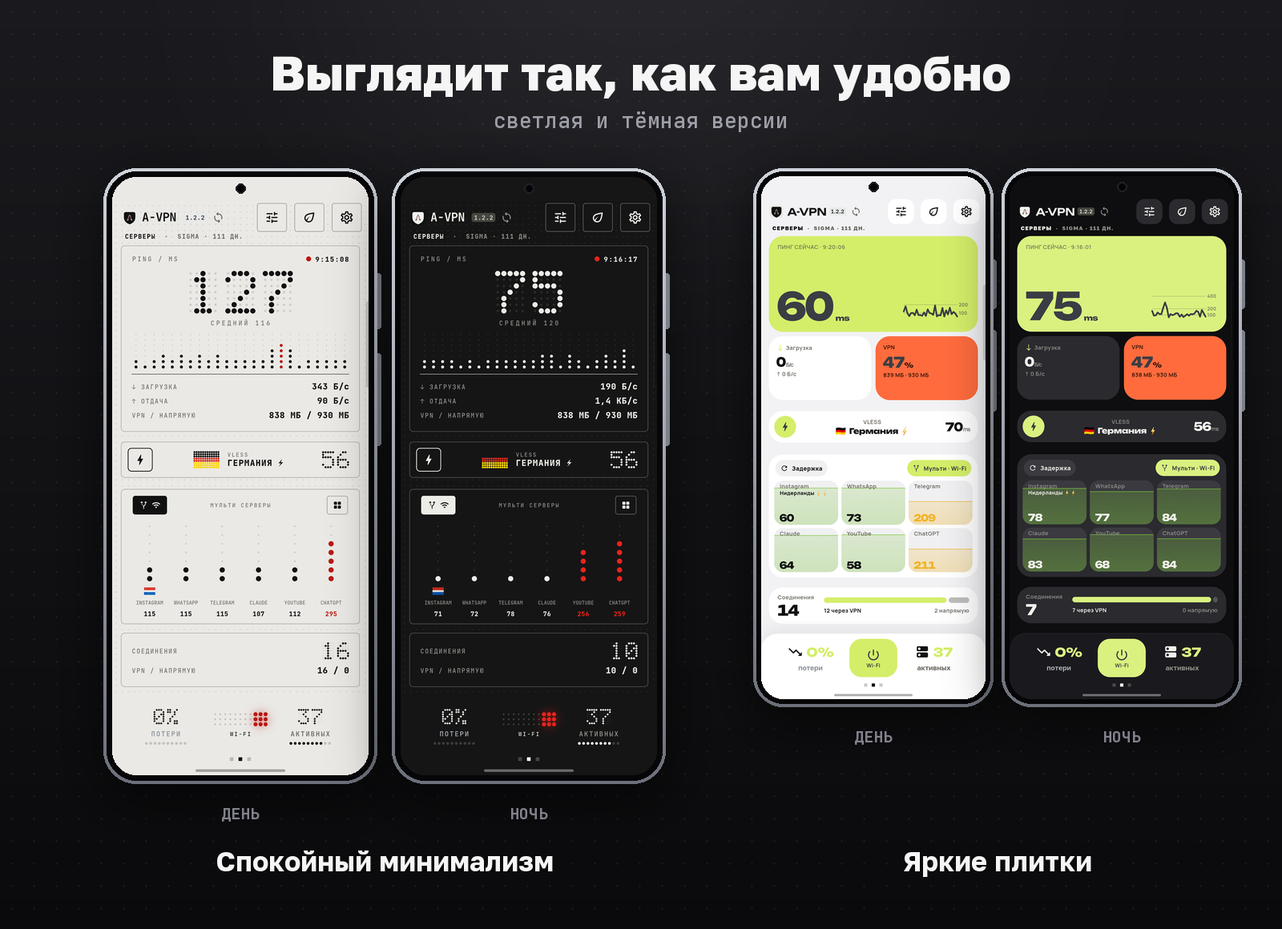
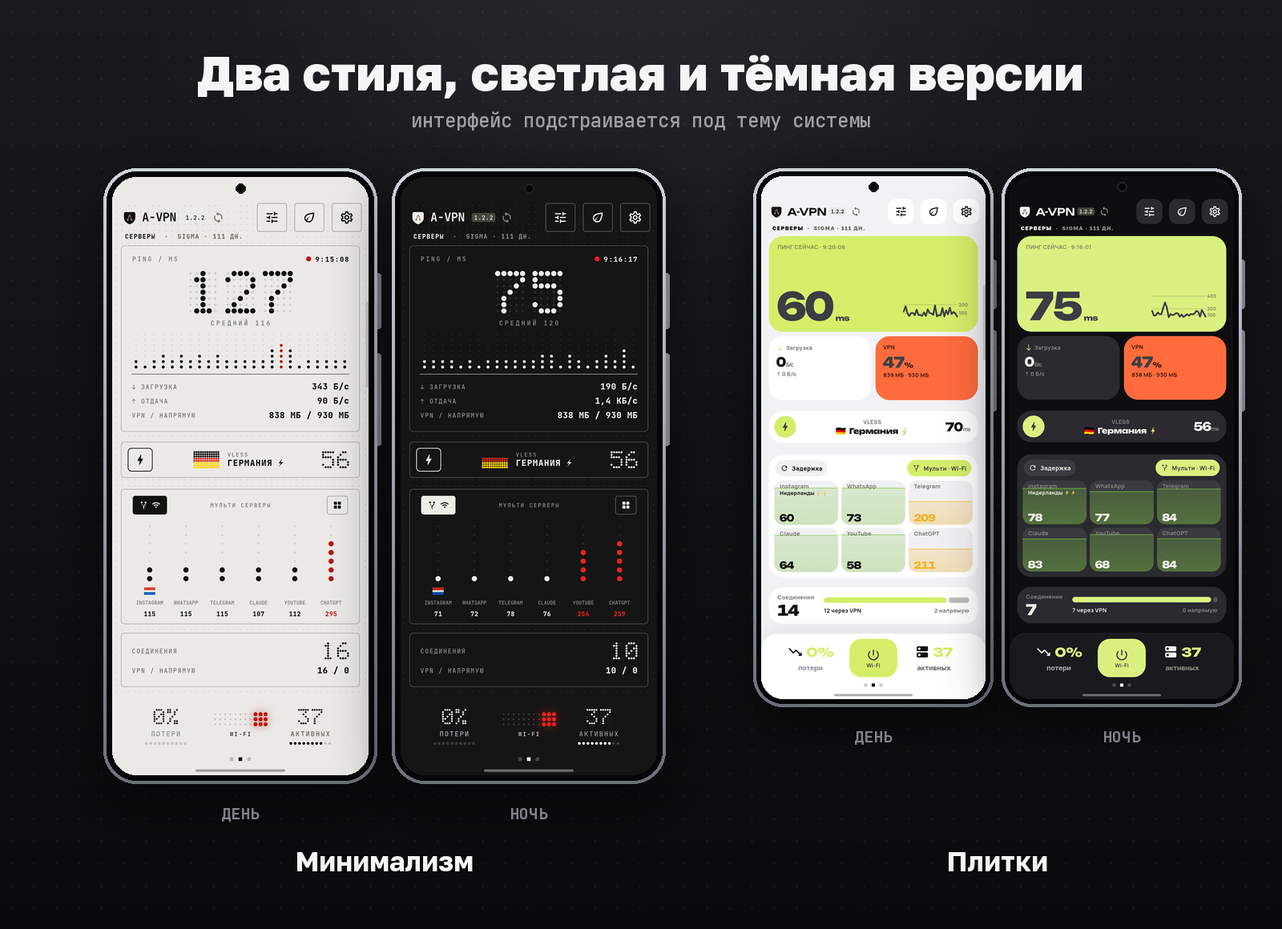
README and pictures: calmer product wording, English summary, feature cards on the Dots style

Changed region(s): [[0.1562, 0.0621, 0.8438, 0.1552], [0.1562, 0.9, 0.4375, 0.9621], [0.6875, 0.9, 0.8438, 0.9621]]

diff --git a/README.md b/README.md
@@ -1,89 +1,84 @@
 <p align="center">
-  <img src="docs/screenshots/hero.png" alt="A-VPN: включил и забыл. Сам переключается между Wi-Fi и LTE, выбирает быстрый сервер и держит связь">
+  <img src="docs/screenshots/hero.png" alt="A-VPN: VPN-клиент для Android, который следит за качеством связи">
 </p>
 
-<p align="center">
-  <img src="docs/screenshots/logo.png" width="72" alt="A-VPN">
-</p>
+<h1 align="center">A-VPN</h1>
 
 <p align="center">
-  VPN-клиент для Android на ядре sing-box. Форк <a href="https://github.com/hiddify/hiddify-app">Hiddify</a> с собственным интерфейсом, статистикой и логикой выбора серверов.<br>
-  <i>An Android VPN client on the sing-box core: a fork of Hiddify that switches between Wi-Fi and LTE by itself and keeps the connection steady. Android 7+, 64-bit ARM only.</i>
+  Клиент для Android на ядре sing-box. Подбирает серверы под текущую сеть, переключается между Wi‑Fi и LTE без разрыва и показывает, как работает соединение.
 </p>
 
 <p align="center">
   <a href="https://github.com/Aramikkk/A-VPN/releases/latest"><img alt="Release" src="https://img.shields.io/github/v/release/Aramikkk/A-VPN?label=release"></a>
-  <a href="https://github.com/Aramikkk/A-VPN/releases"><img alt="Downloads" src="https://img.shields.io/github/downloads/Aramikkk/A-VPN/total?label=%D1%81%D0%BA%D0%B0%D1%87%D0%B8%D0%B2%D0%B0%D0%BD%D0%B8%D0%B9"></a>
+  <a href="https://github.com/Aramikkk/A-VPN/releases"><img alt="Downloads" src="https://img.shields.io/github/downloads/Aramikkk/A-VPN/total?label=downloads"></a>
+  <img alt="Platform" src="https://img.shields.io/badge/Android-7%2B%20%C2%B7%20arm64-3ddc84">
   <a href="LICENSE.md"><img alt="License" src="https://img.shields.io/badge/license-Hiddify%20Extended%20GPL%20v3-blue"></a>
 </p>
 
-> **A-VPN не связан с командой Hiddify и не одобрен ею.** Это независимый форк по условиям их лицензии (см. [Лицензия](#лицензия)). Оригинал: <https://github.com/hiddify/hiddify-app>.
-
-## Связь, о которой не нужно думать
-
 <p align="center">
-  <img src="docs/screenshots/why.png" alt="Wi-Fi и LTE без переключений, всегда нужный сервер, связь не пропадает">
+  <b>Русский</b> · <a href="#english">English</a>
 </p>
 
-- **Wi‑Fi и LTE без переключений.** Вышли из дома, и приложение уже подобрало серверы под мобильную сеть: без отключений и ручных настроек.
-- **Всегда нужный сервер.** В мобильной сети серверы для белых списков, в Wi‑Fi обычные; страны включаются для каждой сети отдельно.
-- **Связь не пропадает.** Приложение следит за пингом и потерями, меняет сервер до того, как вы заметите проблему, и само приводит связь в порядок после сна телефона.
+> A-VPN — независимый форк [Hiddify](https://github.com/hiddify/hiddify-app), выпущенный по условиям его лицензии. Он не связан с командой Hiddify и не одобрен ею.
+
+## Надёжность соединения
 
 <p align="center">
-  <img src="docs/screenshots/inside.png" alt="Всё, что нужно, и ничего лишнего">
+  <img src="docs/screenshots/why.png" alt="Wi-Fi и LTE без разрыва, серверы под каждую сеть, устойчивое соединение">
 </p>
 
-## Как выглядит
+- **Wi‑Fi и LTE без разрыва.** При смене сети серверы и настройки подбираются под неё, VPN остаётся включённым.
+- **Серверы под каждую сеть.** В мобильной сети используются серверы для белых списков, в Wi‑Fi обычные. Страны настраиваются отдельно для каждой сети.
+- **Устойчивое соединение.** Приложение постоянно измеряет задержку и потери, вовремя меняет сервер, перезапускает ядро при потере связи и проверяет соединение после сна устройства.
 
-Спокойный минимализм или яркие плитки, светлая и тёмная версии.
+## Возможности
 
 <p align="center">
-  <img src="docs/screenshots/looks.png" alt="Два стиля приложения, день и ночь">
+  <img src="docs/screenshots/inside.png" alt="Контроль качества связи, быстрый выбор сервера, отдельный сервер для сервиса, статистика">
 </p>
 
-<p align="center">
-  <img src="docs/screenshots/screens.png" alt="Выбор сервера, куда ушёл трафик, как держится связь, настройки">
-</p>
-
-## Что умеет
-
-**Подключение и выбор серверов**
-- Несколько подписок сразу; порядок меняется перетаскиванием, одну можно сделать приоритетной (её серверы остаются, пока другие не быстрее на заданное число миллисекунд).
-- «Авто» по минимальной задержке с допуском отдельно для Wi‑Fi и мобильной сети.
-- Кнопка у текущего сервера: пингует все серверы и выбирает самый быстрый из подходящих.
-- Серверы по сети: в мобильной сети только серверы для белых списков («LTE Only», «БС»), в Wi‑Fi обычные; страны можно отключать отдельно для каждой сети.
-- «Мульти серверы»: отдельный сервер для каждого из выбранных сайтов и приложений (Instagram, WhatsApp, Telegram, YouTube и т. д.), с измерением задержки до каждого сайта.
+**Серверы**
+- Несколько подписок в одном списке. Порядок задаётся перетаскиванием, одну подписку можно сделать приоритетной.
+- Автоматический выбор по минимальной задержке с отдельным допуском для Wi‑Fi и мобильной сети.
+- Кнопка быстрого выбора: проверяет все серверы и выбирает самый быстрый из доступных по вашим правилам.
+- Отдельный сервер для выбранных сервисов и приложений (Instagram, WhatsApp, Telegram, YouTube и других) с измерением задержки до каждого.
 
 **Маршрутизация**
-- Режим «только заблокированное через VPN»: всё остальное идёт напрямую (встроенный список, обновляется).
-- Правила по приложениям (раздельное туннелирование) и по доменам; готовые группы для российских сервисов, банков и маркетплейсов.
-- Блокировка рекламы, трекеров, фишинга и майнеров на уровне VPN.
-- Автопауза: VPN сам отключается, пока открыто приложение из вашего списка (Госуслуги, банки), и включается обратно.
-- Домашний Wi‑Fi: если на роутере уже работает свой VPN, приложение само встаёт на паузу и возвращается вне дома (сеть определяется по роутеру, без доступа к геолокации).
+- Режим «только заблокированное через VPN»: остальной трафик идёт напрямую. Список обновляется.
+- Раздельное туннелирование по приложениям и доменам, готовые группы для российских сервисов, банков и маркетплейсов.
+- Блокировка рекламы, трекеров, фишинговых сайтов и майнеров на уровне VPN.
+- Автопауза: VPN приостанавливается, пока на экране приложение из вашего списка (например, Госуслуги или банк), и включается снова.
+- Домашний Wi‑Fi: если на роутере уже работает свой VPN, приложение приостанавливается и возвращается вне дома. Сеть определяется по роутеру, доступ к геолокации не нужен.
 
 **Статистика**
-- Топология: какой трафик куда ушёл (VPN, напрямую, заблокировано) и через какие страны.
-- «Серверы»: объём и время по каждому серверу за сессию, сутки, месяц и всё время.
-- Потери и пинг с историей, трафик по приложениям.
+- Топология: куда ушёл трафик (VPN, напрямую, заблокировано) и через какие страны.
+- Серверы: объём и время по каждому серверу за сессию, сутки, месяц и весь период.
+- Задержка и потери с историей, трафик по приложениям.
 
-**Интерфейс и батарея**
-- Два стиля на выбор (спокойный минимализм и яркие плитки; есть и стеклянный, и контрастный), светлая и тёмная версии, масштаб интерфейса и шрифта.
-- Ночной режим и «лёгкая работа в фоне»: реже опросы, меньше пробуждений.
-- Проверка и восстановление связи после сна телефона.
+**Работа в фоне**
+- Ночной режим и режим лёгкой работы: реже опросы, меньше пробуждений устройства.
+- Уведомление службы не обновляется, пока экран выключен.
 
-**Безопасность**
-- Управление ядром идёт через локальный gRPC с случайным секретом, свой у каждой установки (другие приложения к ядру не подключатся).
-- Журналы очищаются от ссылок подписок, ключей, паролей и UUID.
-- Обновления берутся только из релизов этого репозитория, архив проверяется по SHA‑256.
+## Интерфейс
+
+<p align="center">
+  <img src="docs/screenshots/looks.png" alt="Два стиля интерфейса, светлая и тёмная версии">
+</p>
+
+<p align="center">
+  <img src="docs/screenshots/screens.png" alt="Выбор сервера, трафик, качество связи, настройки">
+</p>
+
+Два стиля на выбор (минимализм и плитки; есть также стеклянный и контрастный), светлая и тёмная версии, масштаб интерфейса и шрифта.
 
 ## Установка
 
-1. Скачайте `A-VPN-<версия>-arm64.apk` из [релизов](https://github.com/Aramikkk/A-VPN/releases/latest).
-2. Проверьте контрольную сумму: рядом лежит файл `*.apk.sha256`.
+1. Скачайте `A-VPN-<версия>-arm64.apk` из [последнего релиза](https://github.com/Aramikkk/A-VPN/releases/latest).
+2. Проверьте контрольную сумму. Рядом лежит файл `*.apk.sha256`:
    ```bash
    sha256sum -c A-VPN-<версия>-arm64.apk.sha256
    ```
-3. Установите (Android попросит разрешить установку из этого источника) и добавьте свою подписку: «Профили» → «+».
+3. Установите APK (Android запросит разрешение на установку из этого источника) и добавьте подписку: «Профили» → «+».
 
 **Подпись.** Все релизы подписаны одним ключом. SHA‑256 сертификата:
 
@@ -93,47 +88,48 @@
 
 Проверить: `apksigner verify --print-certs A-VPN-<версия>-arm64.apk`. Если отпечаток другой, это не наша сборка.
 
-**Только 64-битный ARM** (`arm64-v8a`): практически все телефоны последних лет. Для других процессоров (32‑битный ARM, x86) сборок нет.
+**Архитектура.** Только 64-битный ARM (`arm64-v8a`), то есть подавляющее большинство устройств последних лет. Сборок для 32-битного ARM и x86 нет.
 
-Обновления приходят из самого приложения («Настройки» → «О программе»): оно раз в сутки смотрит `latest.json` в последнем релизе этого репозитория, показывает полосу «Доступна версия» и ставит файл после вашего подтверждения.
+**Обновления.** Приложение раз в сутки запрашивает `latest.json` в последнем релизе этого репозитория, показывает уведомление о новой версии и устанавливает её после вашего подтверждения.
 
-## Разрешения и приватность
+## Приватность и разрешения
 
-| Разрешение | Зачем |
+| Разрешение | Назначение |
 |---|---|
-| `INTERNET`, `BIND_VPN_SERVICE`, `FOREGROUND_SERVICE*` | сам VPN |
-| `QUERY_ALL_PACKAGES` | список установленных приложений для раздельного туннелирования и статистики по приложениям |
-| `PACKAGE_USAGE_STATS` | определить приложение на экране для автопаузы VPN (по желанию) |
-| `REQUEST_INSTALL_PACKAGES` | установка обновления по вашему подтверждению |
-| `RECEIVE_BOOT_COMPLETED`, `REQUEST_IGNORE_BATTERY_OPTIMIZATIONS` | запуск после перезагрузки и работа в фоне |
+| `INTERNET`, `BIND_VPN_SERVICE`, `FOREGROUND_SERVICE*` | работа VPN |
+| `QUERY_ALL_PACKAGES` | список приложений для раздельного туннелирования и статистики по приложениям |
+| `PACKAGE_USAGE_STATS` | определение приложения на экране для автопаузы (по желанию) |
+| `REQUEST_INSTALL_PACKAGES` | установка обновления после вашего подтверждения |
+| `RECEIVE_BOOT_COMPLETED`, `REQUEST_IGNORE_BATTERY_OPTIMIZATIONS` | запуск после перезагрузки, работа в фоне |
 | `POST_NOTIFICATIONS` | уведомление службы со скоростью и сервером |
 | `CAMERA` | сканирование QR-кода подписки |
 
-- Телеметрии и аналитики в сборках нет (ключ отправки отчётов не задан).
-- Единственное обращение приложения «от себя»: раз в сутки запрос `latest.json` на github.com (как у любого браузера: ваш IP виден GitHub, никаких идентификаторов приложение не добавляет).
-- Запросы к подписке идут к вашему провайдеру. Если его панель ограничивает число устройств, приложение передаёт случайный идентификатор установки (создаётся при первом запуске, не связан с вами).
-- Всё, что вы настраиваете (подписки, списки приложений, статистика), хранится только на устройстве.
+- Телеметрии и аналитики в сборках нет: ключ отправки отчётов не задан.
+- Приложение само обращается только к github.com: раз в сутки за `latest.json`. GitHub видит IP-адрес, как при открытии любого сайта; идентификаторов приложение не добавляет.
+- Запросы подписки уходят вашему провайдеру. Если его панель ограничивает число устройств, передаётся случайный идентификатор установки, созданный при первом запуске.
+- Подписки, списки приложений и статистика хранятся только на устройстве.
+- Управление ядром идёт через локальный gRPC (`127.0.0.1`) с секретом, уникальным для каждой установки. Другие приложения к ядру подключиться не могут.
+- Журналы очищаются от ссылок подписок, ключей, паролей и UUID.
+- Обновление проверяется по SHA‑256 из того же релиза.
 
 ## Отличия от Hiddify
 
-Полный список по версиям: [`avpn/CHANGELOG.md`](avpn/CHANGELOG.md). Главное:
+Полный список по версиям: [`avpn/CHANGELOG.md`](avpn/CHANGELOG.md). Основное:
 
-- новый интерфейс (четыре темы), главный экран с пингом, потерями, сайтами и текущим сервером;
-- страницы статистики «Топология» и «Серверы», история потерь и пинга;
-- выбор серверов по сети, приоритетная подписка, мульти‑серверы по сайтам;
+- собственный интерфейс и главный экран с задержкой, потерями, сайтами и текущим сервером;
+- страницы статистики «Топология» и «Серверы», история потерь и задержки;
+- выбор серверов по сети, приоритетная подписка, отдельные серверы для сервисов;
 - маршрутизация «только заблокированное», группы российских сервисов, блокировка рекламы;
-- нижний уровень: патчи к ядру ([`avpn/core54-patches`](avpn/core54-patches)) поверх `hiddify-core` 5.4.0 и `hiddify-sing-box`: горячая перезагрузка при смене сети, статистика трафика, группы сайтов;
+- изменения ядра ([`avpn/core54-patches`](avpn/core54-patches)) поверх `hiddify-core` 5.4.0 и `hiddify-sing-box`: горячая перезагрузка при смене сети, статистика трафика, группы сайтов;
 - работа в фоне: ночной режим, проверка связи после сна, перезапуск ядра при необходимости;
-- обновление из GitHub Releases;
-- настройка под отдельного провайдера (Sigma Gate: название «Sigma» вместо «Доступ», запрос подписки как Clash Meta) включается отдельным переключателем в «Общие» и по умолчанию выключена.
-
-Ядро собирается из исходников `hiddify-core` и `hiddify-sing-box` (подробности в [`avpn/core54-patches/README.md`](avpn/core54-patches/README.md)).
+- обновления из GitHub Releases;
+- настройки под провайдера Sigma Gate (название «Sigma» вместо «Доступ», запрос подписки как Clash Meta) вынесены в отдельный переключатель в «Общие» и по умолчанию выключены.
 
 ## Сборка
 
-Релизы собирает только GitHub Actions ([`.github/workflows/release.yml`](.github/workflows/release.yml)): ядро с патчами, затем подписанный APK. Для запуска в репозитории нужны секреты `ANDROID_KEYSTORE_BASE64`, `ANDROID_KEYSTORE_PASSWORD`, `ANDROID_KEY_ALIAS`, `ANDROID_KEY_PASSWORD`.
+Релизы собирает только GitHub Actions ([`.github/workflows/release.yml`](.github/workflows/release.yml)): ядро с патчами, затем подписанный APK. Нужны секреты репозитория `ANDROID_KEYSTORE_BASE64`, `ANDROID_KEYSTORE_PASSWORD`, `ANDROID_KEY_ALIAS`, `ANDROID_KEY_PASSWORD`.
 
-Локально: Flutter 3.38.5, JDK 17, Android SDK с NDK 28, Go (версия из `go.mod` ядра) и `gomobile`. Шаги те же, что в workflow.
+Локально понадобятся Flutter 3.38.5, JDK 17, Android SDK с NDK 28, Go (версия из `go.mod` ядра) и `gomobile`. Шаги те же, что в workflow. Проверка кода:
 
 ```bash
 flutter pub get
@@ -142,13 +138,28 @@ dart run build_runner build --delete-conflicting-outputs
 flutter test
 ```
 
+Подробнее о ядре: [`avpn/core54-patches/README.md`](avpn/core54-patches/README.md).
+
 ## Лицензия
 
-Проект распространяется по **Hiddify Extended GNU GPL v3** ([`LICENSE.md`](LICENSE.md)): GPL v3 с дополнительными условиями Hiddify.
-Кратко: исходный код открыт и опубликован как форк Hiddify; релизы собираются в GitHub Actions; указана атрибуция Hiddify (<https://github.com/hiddify/hiddify-app>); приложение не публикуется в магазинах приложений; коммерческое использование без письменного разрешения запрещено; производные работы распространяются на тех же условиях. Условия полностью в `LICENSE.md`, они обязательны.
+Проект распространяется по **Hiddify Extended GNU GPL v3** ([`LICENSE.md`](LICENSE.md)): GPL v3 с дополнительными условиями Hiddify. В частности: исходный код опубликован как форк Hiddify, релизы собираются в GitHub Actions, указана атрибуция Hiddify, приложение не публикуется в магазинах приложений, коммерческое использование без письменного разрешения запрещено, производные работы распространяются на тех же условиях. Полные условия приведены в `LICENSE.md` и обязательны.
 
-Спасибо команде [Hiddify](https://github.com/hiddify), проекту [sing-box](https://github.com/SagerNet/sing-box) и всем авторам библиотек, на которых это построено.
+Благодарности: команде [Hiddify](https://github.com/hiddify), проекту [sing-box](https://github.com/SagerNet/sing-box) и авторам библиотек, на которых построено приложение.
 
-## Поддержать разработчика
+## Поддержать проект
 
-Это личный проект, он бесплатный и таким останется. Если приложение пригодилось, в «О программе» есть раздел «Поблагодарить разработчика» с реквизитами. Это добровольно и ни на что не влияет.
+Проект бесплатный. Если приложение оказалось полезным, реквизиты для добровольной поддержки есть в «О программе» → «Поблагодарить разработчика». Это ни на что не влияет.
+
+---
+
+## English
+
+**A-VPN** is an Android VPN client built on the sing-box core. It picks servers for the network you are on, switches between Wi‑Fi and LTE without dropping the tunnel, and shows how the connection performs. It is an independent fork of [Hiddify](https://github.com/hiddify/hiddify-app) released under its license and is not affiliated with the Hiddify team.
+
+- **Wi‑Fi and LTE without a break.** Servers and settings follow the network; the VPN stays on.
+- **Servers per network.** Whitelist-friendly servers on mobile data, regular ones on Wi‑Fi; countries are set per network.
+- **Steady connection.** Latency and loss are measured all the time, the server is switched in good time, the core restarts if the link is lost, and the connection is checked after the device wakes up.
+- Per-service servers, blocked-only routing, per-app split tunnelling, ad/tracker/phishing blocking, per-server traffic statistics.
+- No telemetry. Updates come only from this repository's releases and are verified by SHA‑256.
+
+**Install:** download `A-VPN-<version>-arm64.apk` from the [latest release](https://github.com/Aramikkk/A-VPN/releases/latest) and verify it with the `.sha256` file and the certificate fingerprint above. Android 7+, 64-bit ARM only. Source, build workflow and the core patches are in this repository.
